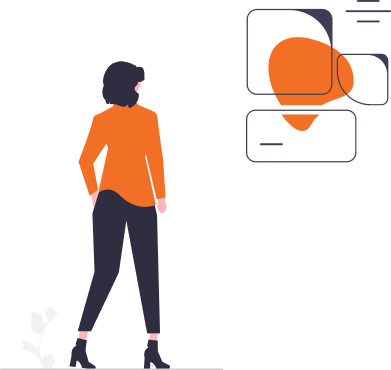
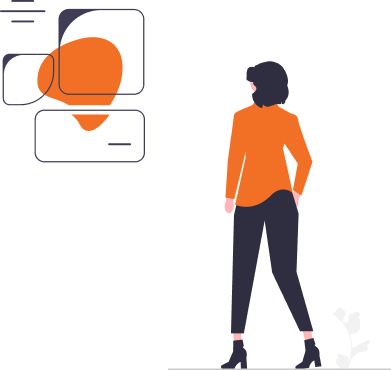
Finish methodologies page

diff --git a/src/components/MethodologiesPage/MethodologiesPage.css b/src/components/MethodologiesPage/MethodologiesPage.css
@@ -1,7 +1,7 @@
 .landing-images {
   position: relative;
   z-index: 1;
-  height: 280px;
+  height: 330px;
 }
 
 .circle-image {
@@ -13,7 +13,8 @@
   transform: translate(0, -50%); */
 
   position: absolute;
-  width: 200px;
+  width: 220px;
+  height: 350px;
   top: 0 !important;
   right: 0;
   z-index: 0;
@@ -23,10 +24,10 @@
   position: relative;
   width: 300px;
   transform: translate(10%, 80%) !important;
-  height: 160px;
+  height: 170px;
   margin-bottom: 50px;
   /* top: 60%; */
-  padding-top: 20px;
+  padding-top: 35px;
 }
 
 .methodologies-main-container {
@@ -61,7 +62,7 @@
 }
 
 .methodologies-type-section p {
-  padding-bottom: 50px;
+  padding-bottom: 70px;
 }
 
 .imersao-methodology {
@@ -83,13 +84,11 @@
   position: relative;
 }
 
-.teste {
+.imersao-methodology-section {
   width: 300px;
-  padding-top: 80px;
+  padding-top: 120px;
   margin-bottom: 30px;
   transform: translate(15%) !important;
-
-  /* width: 100%; */
 }
 
 .exception-image {

diff --git a/src/components/MethodologiesPage/MethodologiesPage.jsx b/src/components/MethodologiesPage/MethodologiesPage.jsx
@@ -63,7 +63,11 @@ const MethodologiesPage = () => {
       <div className="methodologies-type-section">
         <div className="imersao-methodology">
           <div>
-            <img src={imersao} alt="imersao" className="teste" />
+            <img
+              src={imersao}
+              alt="imersao"
+              className="imersao-methodology-section"
+            />
           </div>
           <div className="imersao-methodology-text">
             <div>
